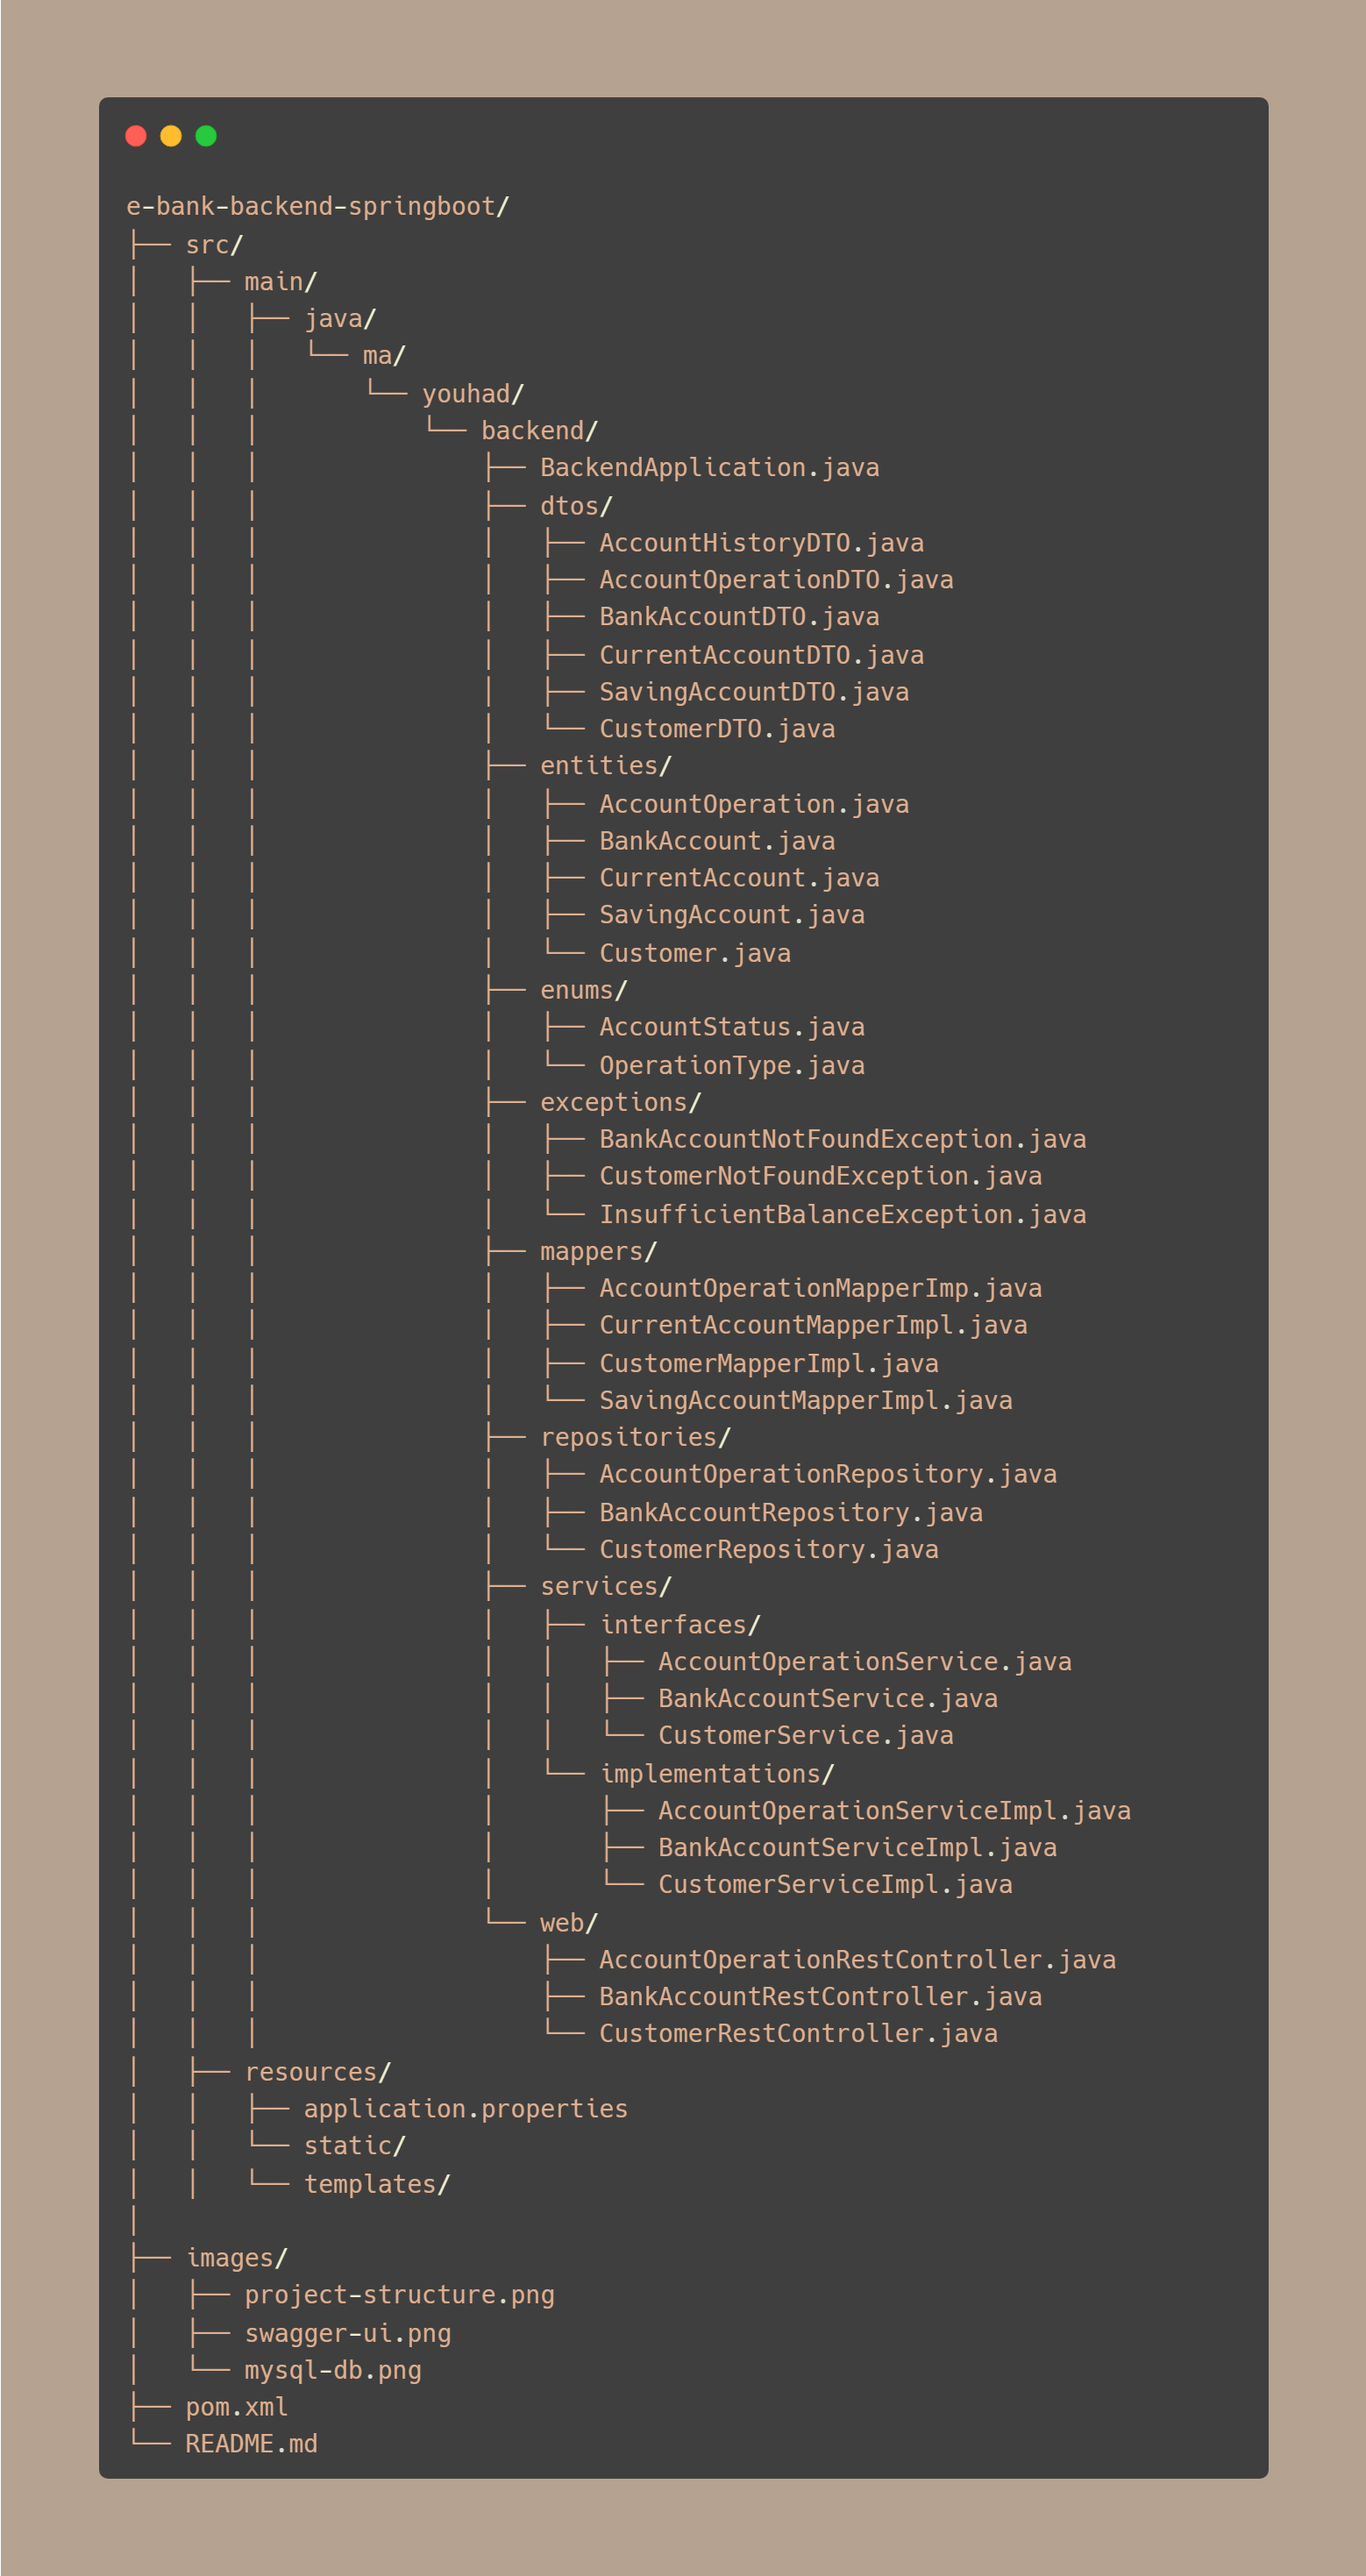
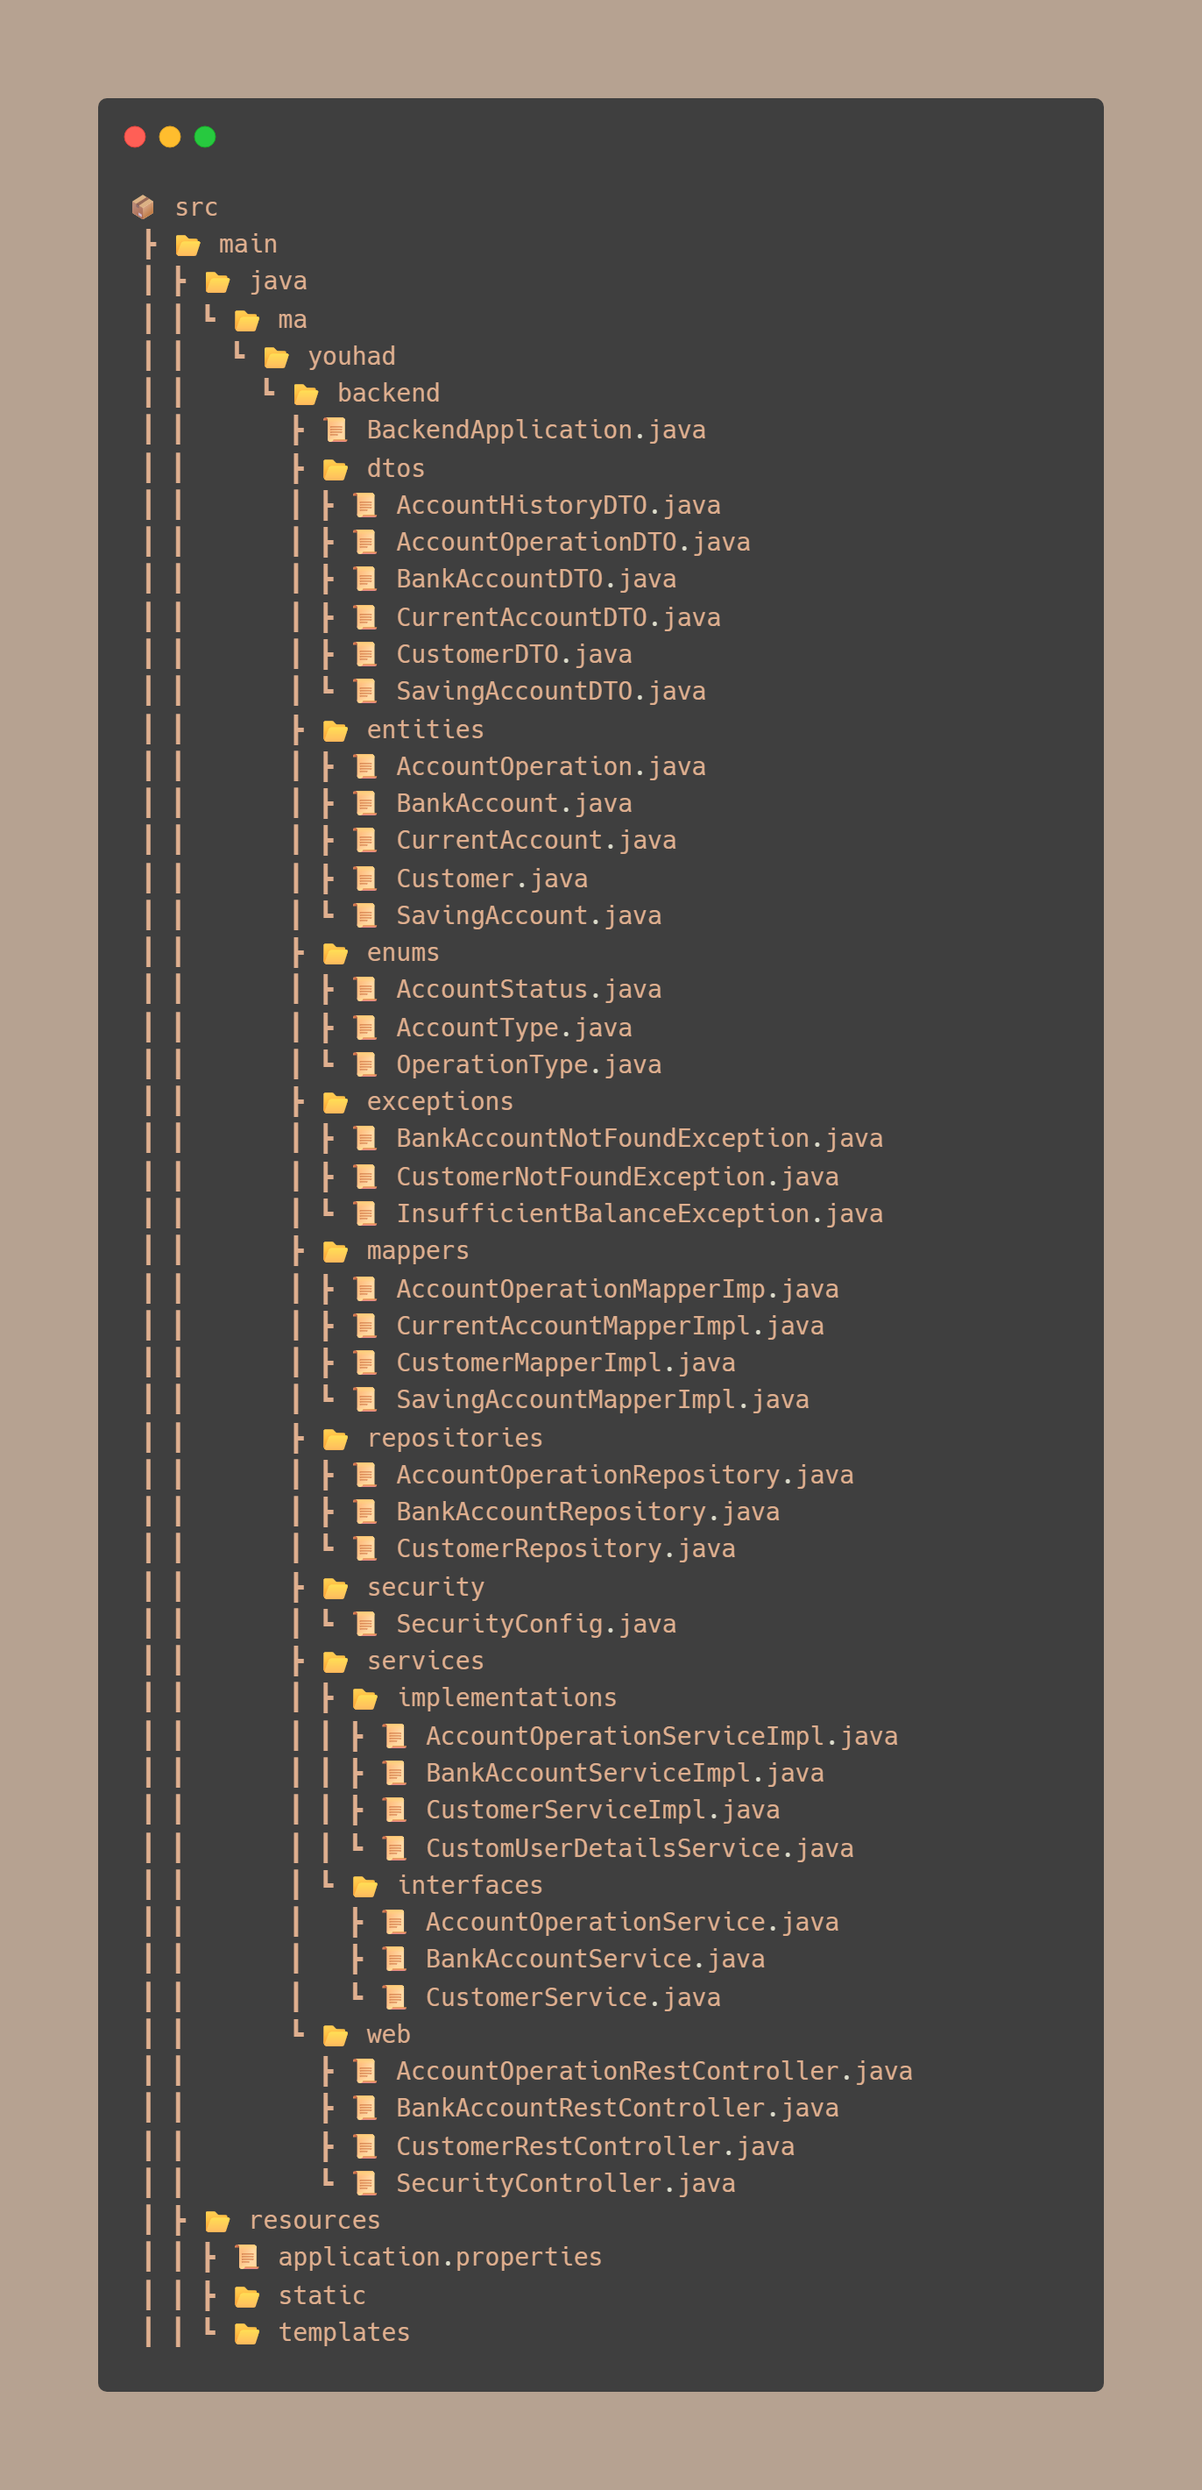
Update Readme and project structure image

diff --git a/README.md b/README.md
@@ -1,8 +1,8 @@
 # 💳 E-BANK Backend Application
 
-A robust and modular backend banking system built with **Spring Boot**, **Spring Data JPA**, and **MySQL**.
+A robust and modular backend banking system built with **Spring Boot**, **Spring Data JPA**, and **MariaDB/MySQL**.
 
-This backend powers core banking features such as customer management, bank account operations (debit, credit, transfer), and full transaction history. The application is structured with clean architectural separation (DTOs, services, mappers, etc.) and is fully documented via Swagger UI for testing and exploration.
+This backend powers core banking features such as customer management, bank account operations (debit, credit, transfer), and full transaction history. The application is structured with clean architectural separation (DTOs, services, mappers, exception handling) and JWT-based security.
 
 > ⚠ This repository contains the **backend only**. The **Angular frontend** is implemented in this  [repository](https://github.com/YOUHAD08/e-bank-frontend-angular.git).
 
@@ -11,19 +11,29 @@ This backend powers core banking features such as customer management, bank acco
 ## 🚀 Features
 
 ### ✅ Customer Management
-- Create, update, retrieve, and delete customers.
+
+- Create, update, retrieve, and delete customers. 
+- Search customers by keyword or exact name.
 
 ### ✅ Bank Account Management
-- Supports **Current Accounts** (with overdraft) and **Saving Accounts** (with interest rate).
-- Create, update, delete, and retrieve accounts.
+
+- Supports Current Accounts (with overdraft) and Saving Accounts (with interest rate). 
+- Create, update, delete, and retrieve bank accounts. 
+- Retrieve accounts by customer.
 
 ### ✅ Account Operations
-- Debit, credit, and transfer between accounts.
-- Track full transaction history with pagination and detailed summaries.
+
+- Debit, credit, and transfer between accounts. 
+- Track full transaction history with pagination and summaries.
 
 ### ✅ Advanced History API
 - Structured account history using `AccountHistoryDTO`.
 - Access latest operation summaries.
+
+### ✅ Security & Authentication
+
+-JWT-based authentication with role-based access control (USER and ADMIN scopes). 
+Password encryption using BCrypt.
 
 ### ✅ Exception Handling
 Handles common banking errors:
@@ -44,12 +54,13 @@ Interactive Swagger UI at:
 ![Backend Project Structure](images/project-structure.png)
 
 - **Entities:** `Customer`, `BankAccount`, `CurrentAccount`, `SavingAccount`, `AccountOperation`
-- **DTOs:** For safe API communication
+- **DTOs:** Transfer objects for API communication
 - **Repositories:** Spring Data JPA Repositories
 - **Services:** Business logic with interfaces and implementations
-- **Controllers:** REST API endpoints for accounts and operations
+- **Controllers:** REST API endpoints secured by JWT scopes
 - **Mappers:** Entity ↔ DTO transformation
-- **Exceptions:** Custom exception classes
+- **Exceptions:** Custom exceptions for domain errors
+- **Security**: JWT generation and validation, password encoding
 
 ---
 
@@ -68,16 +79,19 @@ This backend currently uses a **relational MySQL** database to persist customer,
 
 ## 🛠 Technologies Used
 
-| Technology        | Version        |
-|-------------------|----------------|
-| Java              | 21             |
-| Spring Boot       | 3.5.3          |
-| Spring Data JPA   | Included       |
-| MySQL             | 8+             |
-| Lombok            | 1.18.34        |
-| Swagger / OpenAPI | 2.5.0          |
-| Maven             | Build Tool     |
-| H2 (optional)     | For testing    |
+| Technology        | Version           |
+|-------------------|-------------------|
+| Java              | 21                |
+| Spring Boot       | 3.5.3             |
+| Spring Data JPA   | Included          |
+| MySQL             | 8+                |
+| Lombok            | 1.18.34           |
+| Swagger / OpenAPI | 2.5.0             |
+| Maven             | Build Tool        |
+| H2 (optional)     | For testing       |
+| JWT (Nimbus JOSE) | included          |
+| BCrypt            | Password Encoding |
+
 
 ---
 
@@ -120,33 +134,41 @@ This backend currently uses a **relational MySQL** database to persist customer,
 
 ## 📄 API Overview
 
-### Customer API
+### Customer API (`/auth`)
 
-- `GET /customers` - List all customers 
-- `GET /customer/{id}` - Get customer by ID 
-- `GET /customers/search` - Search customers by keyword (?keyword=)
-- `POST /customer` - Create new customer 
-- `PUT /customer/{id}` - Update customer 
-- `DELETE /customer/{id}` - Delete customer
+- `POST /auth/login` — Login with username and password, returns JWT token. 
+- `POST /auth/signup` — Register a new customer (role USER by default). 
+- `GET /auth/profile` — Get current authenticated user details.
 
-### Bank Account API
+### Customer API (`/customer, /customers`)
 
-- `GET /accounts` - List all bank accounts
-- `GET /account/{accountId}` - Get bank account details 
-- `GET /accounts/{customerId}` Get all bank accounts of a customer
-- `POST /currentAccount/{customerId}` - Create current account for customer 
-- `POST /savingAccount/{customerId}` - Create saving account for customer 
-- `PUT /currentAccount/{accountId}` - Update current account 
-- `PUT /savingAccount/{accountId}` - Update saving account 
-- `DELETE /account/{accountId}` - Delete bank account
+- `GET /customers` — List all customers.
+- `GET /customer/{id}` — Get customer by ID.
+- `GET /customers/search?keyword=` — Search customers by keyword.
+- `GET /customer/search?name=` — Search customer by exact name.
+- `POST /customer` — Create customer (ADMIN only).
+- `PUT /customer/{id}` — Update customer (ADMIN only).
+- `DELETE /customer/{id}` — Delete customer (ADMIN only)
 
-### Account Operations API
+### Bank Account API (`/account`, `/accounts`, `/currentAccount`, `/savingAccount`)
 
-- `GET /account/{accountId}/operations` - List all operations for an account
-- `GET /account/{accountId}/pageOperations?page=&size=` - Paginated operations list 
-- `POST /account/{accountId}/debit?amount=&description=` - Debit an account 
-- `POST /account/{accountId}/credit?amount=&description=` - Credit an account 
-- `POST /account/{fromCustomerId}/transfer?toCustomerId=&amount=` - Transfer money
+- `GET /account/{accountId}`— Get bank account by ID. 
+- `GET /accounts` — List all accounts. 
+- `GET /accounts/{customerId}` — List all accounts of a customer. 
+- `POST /currentAccount/{customerId}` — Create current account (ADMIN only). 
+- `POST /savingAccount/{customerId}` — Create saving account (ADMIN only). 
+- `PUT /currentAccount/{accountId}` — Update current account (ADMIN only). 
+- `PUT /savingAccount/{accountId}` — Update saving account (ADMIN only). 
+- `DELETE /account/{accountId}` — Delete account (ADMIN only).
+
+### Account Operations API (`/account/{accountId}/operations`)
+
+- `GET /account/{accountId}/operations` — List all operations for an account. 
+- `GET /account/{accountId}/pageOperations?page=&size=` — Paginated operations list. 
+- `POST /account/{accountId}/debit?amount=&description=` — Debit an account. 
+- `POST /account/{accountId}/credit?amount=&description=` — Credit an account (ADMIN only). 
+- `POST /account/{accountId}/transfer?toAccountId=&amount=` — Transfer money (ADMIN only). 
+- `GET /operations` — List all account operations.
 
 ---
 
@@ -158,19 +180,29 @@ This backend currently uses a **relational MySQL** database to persist customer,
 
 ---
 
+## 🧪 Database Initialization
+
+On startup, the application seeds the database with:
+
+- 10 customers with realistic names, cities, and emails. 
+- 3 to 5 random accounts per customer (mix of current and saving). 
+- 10 to 20 random debit and credit operations per account.
+
+---
+
 ## 🤝 Contribution
 
 Contributions are welcome! Feel free to open issues or pull requests so we grow together.
 
 ---
 
-## 🖥 Next Steps: Frontend Development, Agentic AI & Future Database Migration
+## 🖥 Next Steps: Agentic AI & Future Database Migration
 
 This project currently implements the **backend RESTful API** using **Spring Boot** and a relational **MySQL** database.
 
 ### 🔜 Upcoming Plans
 
-#### 🛠 Frontend (In Progress):
+#### 🛠 Frontend (Done):
 
 The frontend is currently under development using Angular and is structured to provide a clean and interactive UI for:
 
@@ -179,16 +211,8 @@ The frontend is currently under development using Angular and is structured to p
 - Viewing paginated account operation history
 - ... and more features to come
 
-> ⚠ The frontend is still a **Work In Progress**
-> 
-> You can check the current WIP version of the frontend in the following
-> [repository](https://github.com/YOUHAD08/e-bank-frontend-angular.git)
-> 
-> for inspiration or to get an idea of the architecture:
 
-
-
-#### 🤖 Agentic AI Integration (Planned):
+#### 🤖 Agentic AI Integration (In Progress):
 In future development, I plan to build an **agentic AI component** to work alongside this backend. While the full scope is yet to be defined, potential features might include:
 
 - Intelligent customer support and chatbot integration
@@ -205,7 +229,7 @@ Although this version uses **MySQL**, a future version of this backend will be m
 - Easier scalability
 - Faster iterations in development
 
-Stay tuned for the **Angular frontend**, the **agentic AI enhancements**, and the **MongoDB-backed backend**!
+Stay tuned for the **agentic AI enhancements**, and the **MongoDB-backed backend**!
 
 ---
 
